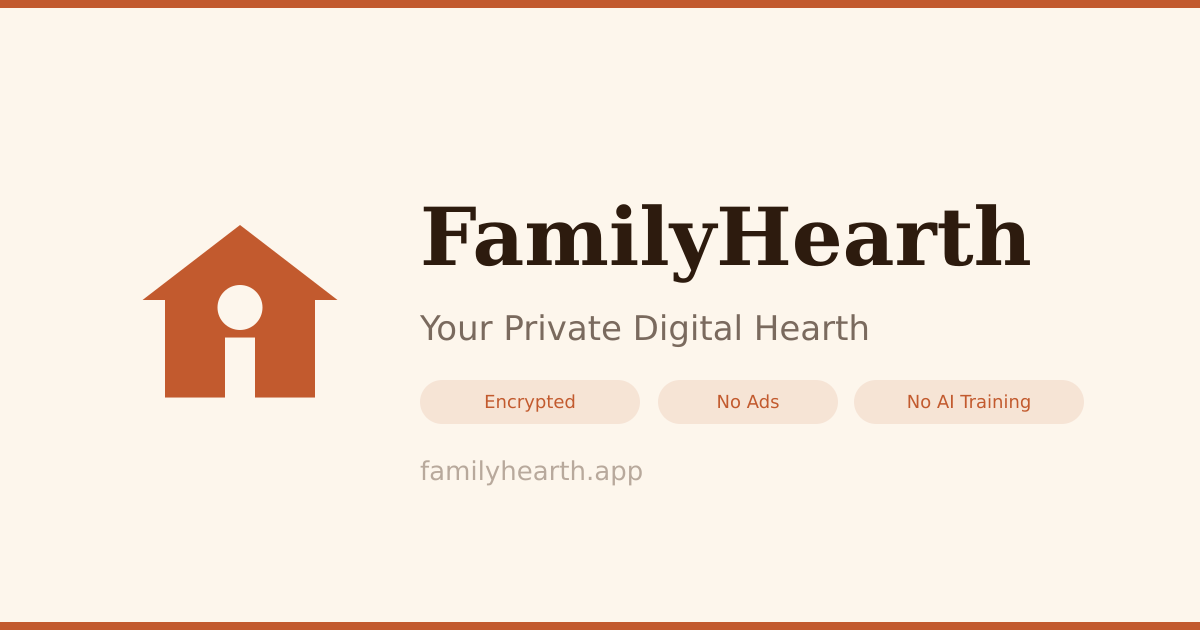
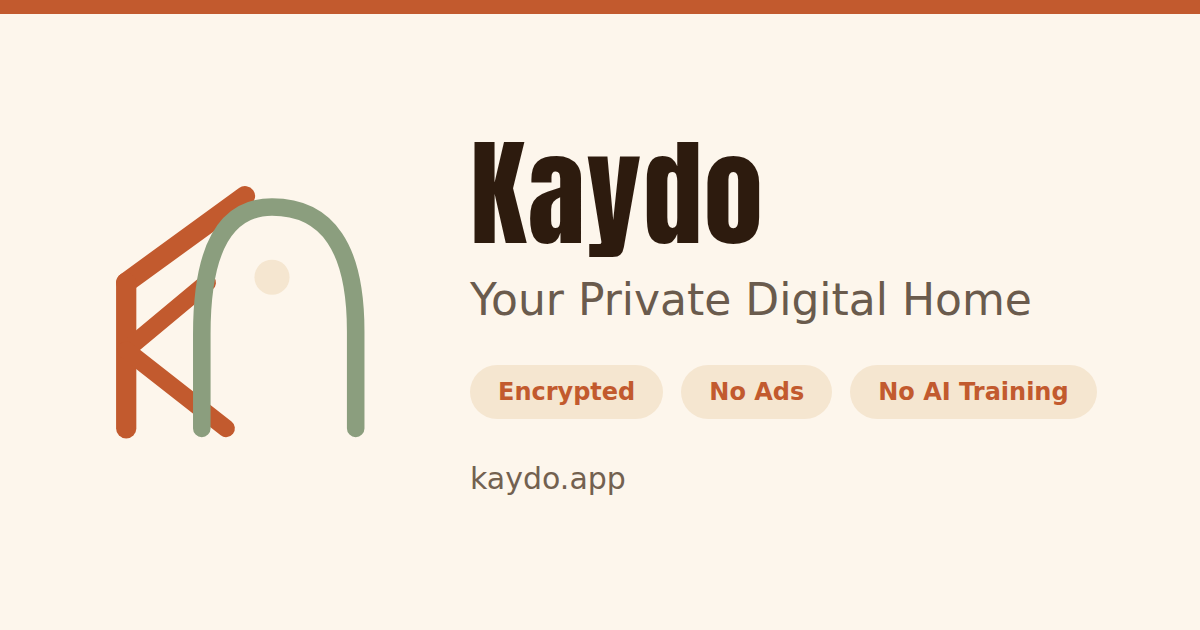
Add time-lock, PWA and FAQ sections, refresh og-images and README
Landing page:
- Vault card: new "time-locked capsules" bullet (backed by unlockDate /
  isUnlocked in useBlackBox)
- Share card: surface Daily Moments and the seasonal "on this day"
  smart timeline; drop two stale bullets
- New "Works like an app" strip: install (wired to the real PWA install
  prompt when available), instant loads, notifications — offline media
  deliberately not claimed (encrypted blobs are NetworkOnly)
- New FAQ section (5 questions) with matching FAQPage JSON-LD
- Demo-family CTA repeated in the closing CTA section
- "Seven Pillars" renamed to the count-proof "The Pillars of Home"
- Removed dead i18n keys (journalCard, innerCircle, sharedPassword,
  recipe.members, scrapbook preview strings)

SEO / assets:
- Replaced the outdated FamilyHearth og-image with Kaydo-branded images,
  now language-specific (og-image.png / og-image-de.png) and wired
  dynamically into og:image and twitter:image
- SoftwareApplication JSON-LD: inLanguage en/de, screenshots, EUR+USD
  zero-price offers

README rewritten to match the current product (features, client-side
AES-256-GCM encryption incl. honest key-storage limitation, tech stack,
emulator workflow). All copy bilingual EN+DE; render smoke test extended.

Claude-Session: https://claude.ai/code/session_01XJxETy4evw6L7WW4SRA4LY

diff --git a/src/pages/LandingPage.jsx b/src/pages/LandingPage.jsx
@@ -23,6 +23,10 @@ import {
   User,
   Eye,
   EyeOff,
+  Smartphone,
+  Zap,
+  Bell,
+  ChevronDown,
 } from 'lucide-react'
 import { useState, useMemo } from 'react'
 import { useTranslation } from 'react-i18next'
@@ -59,6 +63,7 @@ export default function LandingPage() {
   // the English default. Canonical and hreflang must agree on that mapping.
   const lang = t('seo.ogLocale').slice(0, 2)
   const canonicalUrl = lang === 'de' ? 'https://kaydo.app/?lang=de' : 'https://kaydo.app/'
+  const ogImageUrl = lang === 'de' ? 'https://kaydo.app/og-image-de.png' : 'https://kaydo.app/og-image.png'
 
   return (
     <div className="min-h-screen bg-cream font-sans">
@@ -84,7 +89,7 @@ export default function LandingPage() {
         <meta property="og:title" content={t('seo.ogTitle')} />
         <meta property="og:description" content={t('seo.ogDescription')} />
         <meta property="og:url" content={canonicalUrl} />
-        <meta property="og:image" content="https://kaydo.app/og-image.png" />
+        <meta property="og:image" content={ogImageUrl} />
         <meta property="og:image:width" content="1200" />
         <meta property="og:image:height" content="630" />
         <meta property="og:image:alt" content={t('seo.ogImageAlt')} />
@@ -95,7 +100,7 @@ export default function LandingPage() {
         <meta name="twitter:card" content="summary_large_image" />
         <meta name="twitter:title" content={t('seo.twitterTitle')} />
         <meta name="twitter:description" content={t('seo.twitterDescription')} />
-        <meta name="twitter:image" content="https://kaydo.app/og-image.png" />
+        <meta name="twitter:image" content={ogImageUrl} />
         <meta name="twitter:image:alt" content={t('seo.twitterImageAlt')} />
 
         {/* Structured data */}
@@ -108,9 +113,29 @@ export default function LandingPage() {
             url: 'https://kaydo.app',
             applicationCategory: 'LifestyleApplication',
             operatingSystem: 'Web',
-            offers: { '@type': 'Offer', price: '0', priceCurrency: 'USD' },
+            inLanguage: ['en', 'de'],
+            offers: [
+              { '@type': 'Offer', price: '0', priceCurrency: 'EUR' },
+              { '@type': 'Offer', price: '0', priceCurrency: 'USD' },
+            ],
+            screenshot: [
+              'https://kaydo.app/screenshots/home-desktop.webp',
+              'https://kaydo.app/screenshots/scrapbook-desktop.webp',
+              'https://kaydo.app/screenshots/recipe-tree-desktop.webp',
+            ],
             featureList: t('seo.ldFeatures', { returnObjects: true }),
             publisher: { '@type': 'Organization', name: 'Kaydo', url: 'https://kaydo.app' },
+          })}
+        </script>
+        <script type="application/ld+json">
+          {JSON.stringify({
+            '@context': 'https://schema.org',
+            '@type': 'FAQPage',
+            mainEntity: t('faq.items', { returnObjects: true }).map(({ q, a }) => ({
+              '@type': 'Question',
+              name: q,
+              acceptedAnswer: { '@type': 'Answer', text: a },
+            })),
           })}
         </script>
       </Head>
@@ -477,6 +502,42 @@ export default function LandingPage() {
             </div>
 
           </div>
+
+          {/* ── Works like an app (PWA) ──
+              Backed by the real PWA setup: install prompt (usePWAInstall),
+              Workbox precache in src/sw.js, FCM push (functions/index.js)
+              and the anniversary reminder hook. Media is deliberately not
+              claimed to work offline — encrypted blobs are NetworkOnly. */}
+          <div className="mt-12 bg-cream rounded-3xl px-8 py-7">
+            <p className="text-center text-xs font-bold text-bark-muted tracking-widest uppercase mb-5">
+              {t('app.title')}
+            </p>
+            <div className="flex flex-wrap justify-center gap-x-10 gap-y-4">
+              {canInstall ? (
+                <button
+                  type="button"
+                  onClick={promptInstall}
+                  className="flex items-center gap-2.5 text-sm font-medium text-bark hover:text-kaydo transition-colors"
+                >
+                  <Smartphone className="w-5 h-5 text-kaydo" aria-hidden="true" />
+                  {t('app.items.install')}
+                </button>
+              ) : (
+                <span className="flex items-center gap-2.5 text-sm font-medium text-bark">
+                  <Smartphone className="w-5 h-5 text-kaydo" aria-hidden="true" />
+                  {t('app.items.install')}
+                </span>
+              )}
+              <span className="flex items-center gap-2.5 text-sm font-medium text-bark">
+                <Zap className="w-5 h-5 text-kaydo" aria-hidden="true" />
+                {t('app.items.offline')}
+              </span>
+              <span className="flex items-center gap-2.5 text-sm font-medium text-bark">
+                <Bell className="w-5 h-5 text-kaydo" aria-hidden="true" />
+                {t('app.items.notify')}
+              </span>
+            </div>
+          </div>
         </div>
       </section>
 
@@ -606,6 +667,26 @@ export default function LandingPage() {
         </div>
       </section>
 
+      {/* ── FAQ (mirrored as FAQPage JSON-LD in <Head>) ── */}
+      <section className="bg-warm-white py-20">
+        <div className="max-w-2xl mx-auto px-5">
+          <h2 className="text-3xl lg:text-4xl font-bold text-bark text-center mb-10">
+            {t('faq.sectionTitle')}
+          </h2>
+          <div className="space-y-3">
+            {t('faq.items', { returnObjects: true }).map(({ q, a }) => (
+              <details key={q} className="group bg-cream rounded-2xl px-6 py-4">
+                <summary className="flex items-center justify-between gap-4 cursor-pointer list-none font-semibold text-bark [&::-webkit-details-marker]:hidden">
+                  {q}
+                  <ChevronDown className="w-5 h-5 text-bark-muted flex-shrink-0 transition-transform group-open:rotate-180" aria-hidden="true" />
+                </summary>
+                <p className="text-bark-light text-sm leading-relaxed mt-3">{a}</p>
+              </details>
+            ))}
+          </div>
+        </div>
+      </section>
+
       {/* ── Trust badges ──
           TODO(verify): EU hosting is NOT confirmed (Vercel + Firebase +
           Cloudinary, no regions pinned in config) — add an "EU-hosted" badge
@@ -659,6 +740,14 @@ export default function LandingPage() {
             >
               {t('cta.getStarted')}
             </button>
+            <a
+              href="https://the-bennetts.kaydo.app"
+              target="_blank"
+              rel="noopener noreferrer"
+              className="flex items-center gap-2 px-8 py-3 rounded-full border-2 border-bark-muted text-bark font-semibold hover:border-bark transition-colors text-base"
+            >
+              {t('hero.demoCta')}
+            </a>
             <a
               href="https://github.com/Gnadi/0815memories"
               target="_blank"

diff --git a/src/__tests__/landing-render-check.test.jsx b/src/__tests__/landing-render-check.test.jsx
@@ -26,22 +26,29 @@ describe('LandingPage renders in both languages', () => {
     i18n.changeLanguage('en')
   })
 
-  it('renders English with demo CTA, two-zone section and trust badges', () => {
+  it('renders English with demo CTAs, two-zone, app, FAQ and trust sections', () => {
     renderLanding()
-    expect(screen.getByText('Explore the demo family')).toBeInTheDocument()
+    // Demo CTA appears in the hero and again in the closing CTA section.
+    expect(screen.getAllByText('Explore the demo family').length).toBe(2)
     expect(screen.getByText('Two zones, one home')).toBeInTheDocument()
     expect(screen.getByText('Everyday ease')).toBeInTheDocument()
     expect(screen.getByText('Vault-grade privacy')).toBeInTheDocument()
+    expect(screen.getByText('Works like an app')).toBeInTheDocument()
+    expect(screen.getByText('Frequently asked questions')).toBeInTheDocument()
+    expect(screen.getByText('Do grandparents need an account?')).toBeInTheDocument()
     expect(screen.getByText('GDPR-compliant')).toBeInTheDocument()
     expect(screen.getAllByText(/AES-256/).length).toBeGreaterThan(0)
     expect(document.body.textContent).not.toMatch(/invite-only|military-grade|zero-knowledge|data breaches/i)
   })
 
-  it('renders German with demo CTA, two-zone section and DSGVO badge', async () => {
+  it('renders German with demo CTAs, two-zone, app, FAQ and DSGVO badge', async () => {
     await i18n.changeLanguage('de')
     renderLanding()
-    expect(screen.getByText('Demo-Familie ansehen')).toBeInTheDocument()
+    expect(screen.getAllByText('Demo-Familie ansehen').length).toBe(2)
     expect(screen.getByText('Zwei Zonen, ein Zuhause')).toBeInTheDocument()
+    expect(screen.getByText('Funktioniert wie eine App')).toBeInTheDocument()
+    expect(screen.getByText('Häufige Fragen')).toBeInTheDocument()
+    expect(screen.getByText('Brauchen Oma und Opa ein Konto?')).toBeInTheDocument()
     expect(screen.getByText('DSGVO-konform')).toBeInTheDocument()
     expect(screen.getAllByText(/AES-256/).length).toBeGreaterThan(0)
     expect(document.body.textContent).not.toMatch(/nur auf Einladung|Zero-Knowledge|Datenlecks/i)

diff --git a/README.md b/README.md
@@ -1,61 +1,95 @@
 # Kaydo
 
-A private family photo-sharing platform — your digital living room. Share memories, photos, and stories with your inner circle.
+A private, encrypted family memory platform — your family's own corner of the internet. Every family claims its own address (`yourname.kaydo.app`) and gets a warm, ad-free space for photos, stories, recipes and letters across generations.
+
+**Live demo:** [the-bennetts.kaydo.app](https://the-bennetts.kaydo.app) · **Website:** [kaydo.app](https://kaydo.app)
 
 ## Features
 
-- **Private Access**: Family and friends enter with a shared password — no account needed
-- **Admin Dashboard**: Upload photos, create memories, manage the shared password
-- **Daily Moments**: Story circles for quick daily snapshots
-- **Memory Feed**: Rich memory cards with photos, stories, and quotes
-- **Memory Detail**: Full-page view with hero image, blockquote, and narrative
-- **Photo Albums**: Family album glimpse grid on the homepage
-- **Responsive**: Desktop sidebar layout + mobile-first design
+### Share
+- **Memory feed** — rich memory cards with photos, videos, voice memos, stories and quotes
+- **Daily Moments** — story circles for quick everyday snapshots
+- **Smart timeline** — memories grouped by season, with "on this day" lookbacks
 
-## Tech Stack
+### Preserve
+- **The Vault (Black Box)** — high-fidelity originals of your most precious documents and photos, with **time-locked capsules** that stay sealed until a date you choose
+- **Letters & kids' journals** — dated entries and letters to your children, written for the future
+- **Full data export** — download everything as a ZIP of plain, readable files plus structured JSON; NAS-friendly, no lock-in
 
-- **React + Vite** — Fast, modern frontend
-- **Tailwind CSS** — Warm, cozy design system
-- **Firebase Auth** — Admin authentication
-- **Firebase Firestore** — Database for memories, moments, albums
-- **Cloudinary** — Image storage and transformations
+### Create & evolve
+- **Recipe tree** — family recipes with version history, forks and photo logs across generations
+- **Digital scrapbook** — freeform drag-and-drop canvas with polaroid frames, stickers and text; export finished books as PDF
+- **Login page designer** — give your family's address its own front door, from starter templates to a custom photo welcome page
 
-## Getting Started
+### Everyday
+- **Two access levels** — viewers enter with one shared family password (no account needed); admins sign in via Firebase Auth. Invite co-admins with secure invite links
+- **PWA** — installable on any phone or desktop, instant loads via service-worker precache, push notifications for new memories, anniversary reminders
+- **Bilingual** — full English and German UI (i18next)
 
-1. Clone the repo and install dependencies:
+## Security & encryption
+
+- Photos, videos, voice memos, journal entries, recipes, scrapbooks and Vault content are encrypted **client-side** with **AES-256-GCM** (Web Crypto API) before upload — see `src/utils/encryption.js` and `src/utils/encryptedUpload.js`
+- Media is stored as raw ciphertext (Cloudinary `raw` resources); the server never receives a renderable image
+- Images deliberately left unencrypted: only the public login-page design assets, which must render before anyone is authenticated
+- **Honest limitation:** the per-family encryption key is currently stored in the family's Firestore document, so Kaydo is *not* zero-knowledge yet. Moving to client-side key derivation is the intended path before any such claim is made
+
+## Tech stack
+
+- **React + Vite** with **vite-react-ssg** (the landing page is pre-rendered to static HTML)
+- **Tailwind CSS** — warm, cozy design system
+- **Firebase** — Auth, Firestore, Cloud Functions (push notifications, free Spark plan compatible)
+- **Cloudinary** — media storage (signed uploads via the `api/cloudinary-sign` Vercel function)
+- **Workbox** — PWA service worker
+- **i18next** — EN/DE localization
+- **Vitest** — test suite
+
+## Getting started
+
+1. Install dependencies:
    ```bash
    npm install
    ```
 
-2. Copy `.env.example` to `.env.local` and fill in your Firebase and Cloudinary credentials:
-   ```bash
-   cp .env.example .env.local
-   ```
+2. Copy `.env.example` to `.env.local` and fill in your Firebase and Cloudinary credentials (see the comments in `.env.example` for details, including the FCM VAPID key for push notifications).
 
 3. Set up Firebase:
-   - Create a Firebase project at console.firebase.google.com
+   - Create a project at console.firebase.google.com
    - Enable Email/Password authentication
-   - Create a Firestore database
-   - Create an admin user in Firebase Auth
-   - Deploy the Firestore security rules from `firestore.rules`
+   - Create a Firestore database and deploy `firestore.rules`
+   - Optional: deploy the push-notification Cloud Function with `firebase deploy --only functions`
 
-4. Set up Cloudinary:
-   - Create an account at cloudinary.com
-   - Create an unsigned upload preset in Settings > Upload
+4. Set up Cloudinary and put the API key/secret into your Vercel project (server-side env vars for `api/cloudinary-sign.js`).
 
-5. Set the shared password (first-time setup):
-   - Log in as admin
-   - Go to settings and set the shared password for family access
-
-6. Start the dev server:
+5. Start the dev server:
    ```bash
    npm run dev
    ```
 
-## Access Model
+### Local development with the Firebase emulator
 
-- **Viewers** (family/friends): Enter the shared password to view all memories. Read-only access.
-- **Admin**: Firebase email/password login. Can create, edit, delete memories, upload photos, and change the shared password.
+No real Firebase project needed — seed a demo family (the same one used for the landing-page screenshots):
+
+```bash
+npm run emulators          # start Auth + Firestore emulators
+npm run seed:emulator      # seed the demo family
+VITE_USE_EMULATOR=true npm run dev
+```
+
+### Scripts
+
+| Script | Purpose |
+| --- | --- |
+| `npm run dev` | Vite dev server |
+| `npm run build` | Production build incl. static pre-render of `/` |
+| `npm test` | Run the Vitest suite |
+| `npm run lint` | ESLint |
+| `npm run emulators` | Firebase Auth + Firestore emulators |
+| `npm run seed:emulator` | Seed demo data into the emulator |
+
+## Access model
+
+- **Viewers** (family & friends): enter the shared family password — read-only, no account, no app install
+- **Admins**: Firebase email/password login; create and manage content, design the login page, manage the shared password and invite further co-admins
 
 ## License
 
